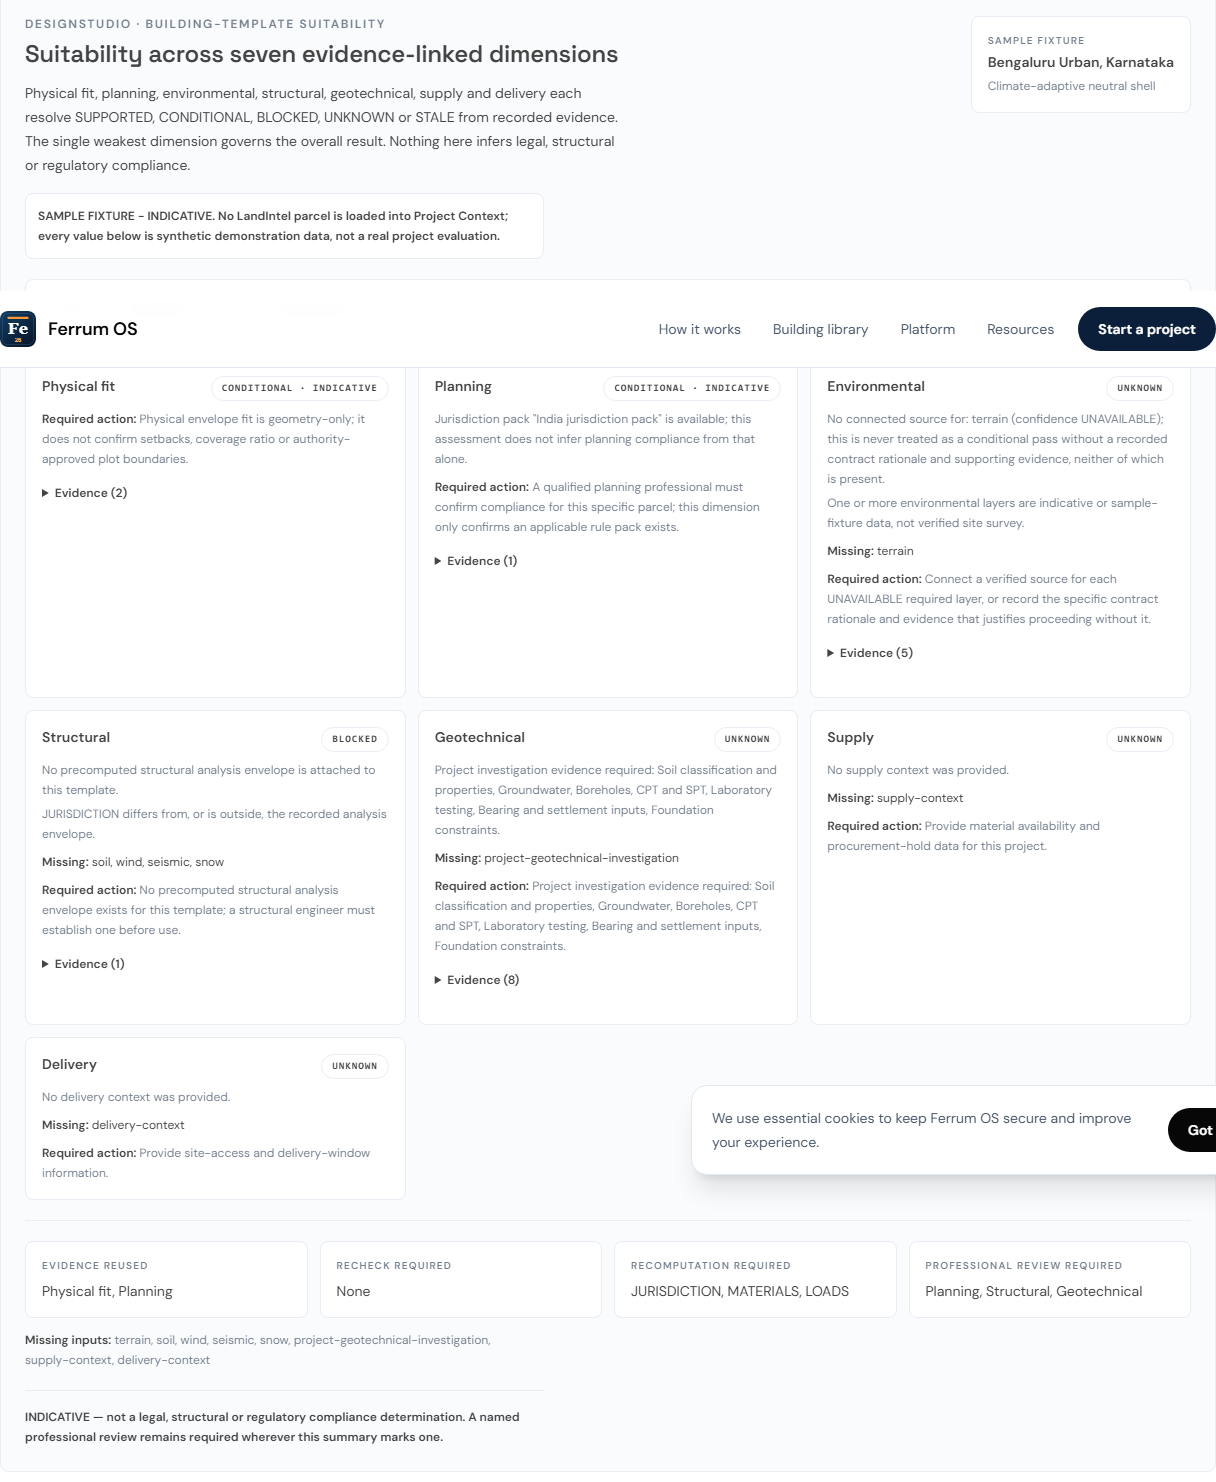
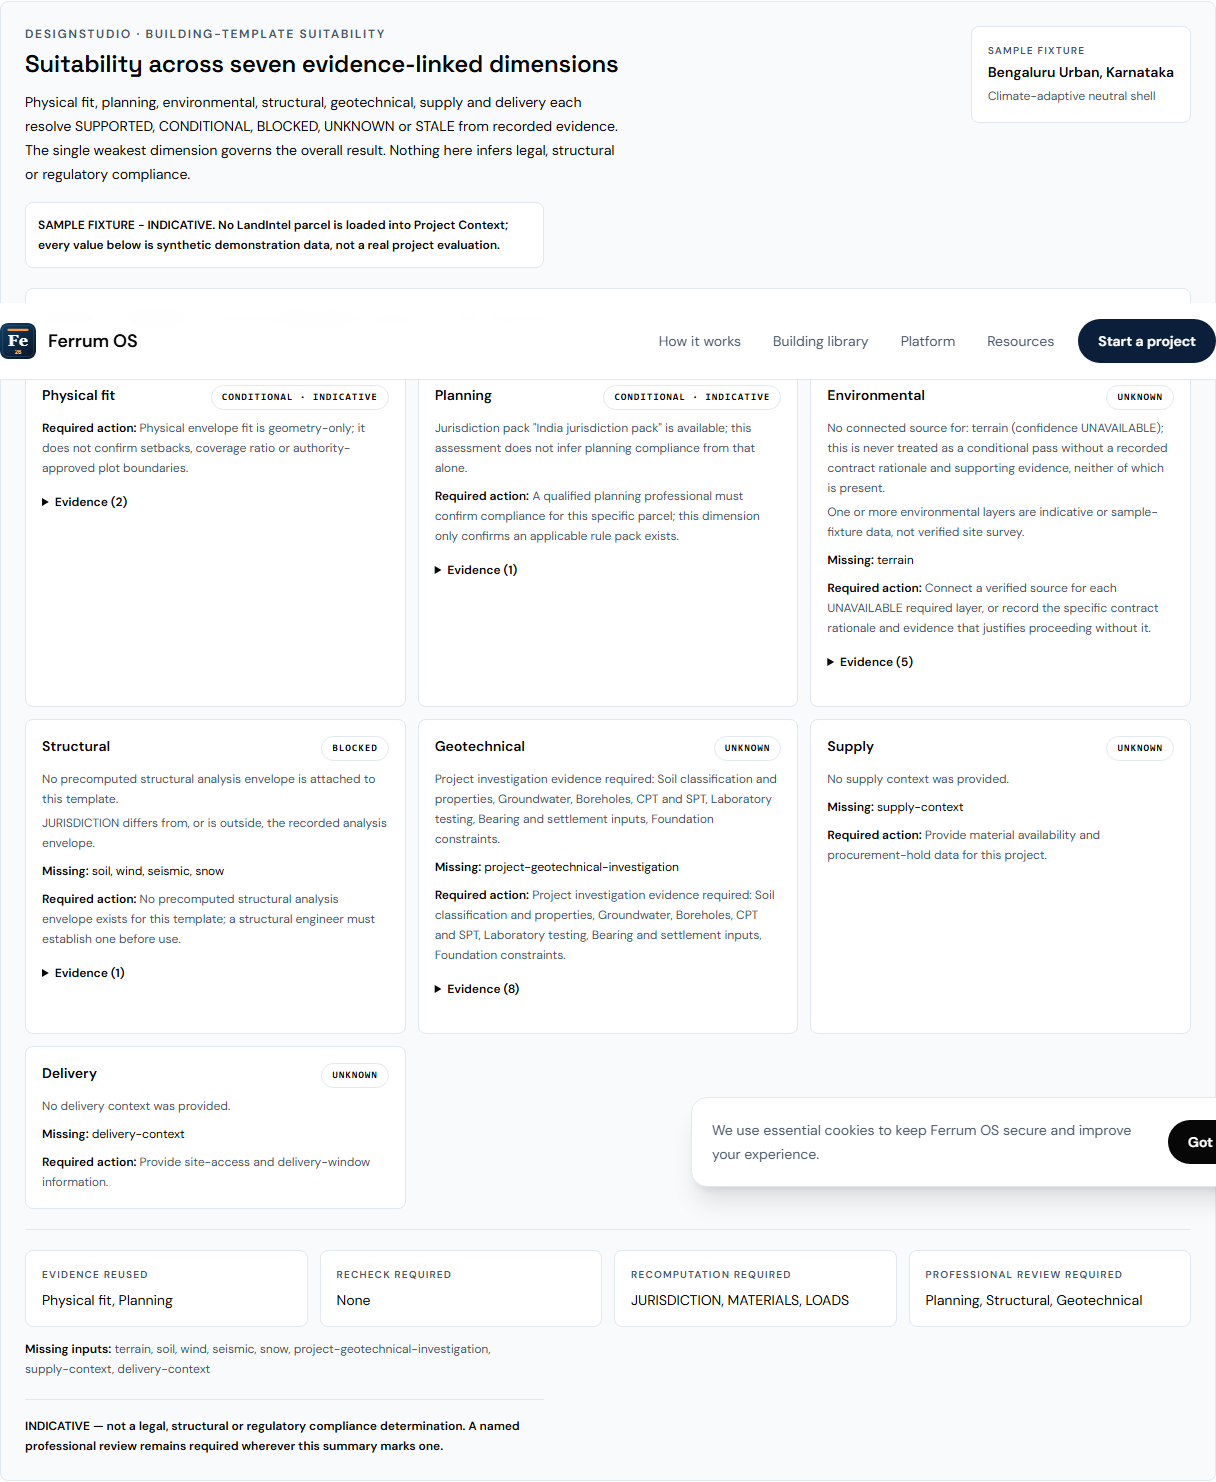
[AI: ATLAS] fix suitability jurisdiction and mobile evidence

diff --git a/apps/web/lib/designstudio/suitabilitySampleFixture.ts b/apps/web/lib/designstudio/suitabilitySampleFixture.ts
@@ -54,14 +54,13 @@ export function buildSampleTemplateInputs(template: BuildingTemplate): ProjectTe
  * dimension, structural or site-hazard data anywhere in this codebase today,
  * so every one of those fields stays null rather than being guessed - the
  * corresponding dimensions resolve UNKNOWN with an explicit missing input
- * instead of a fabricated value. `jurisdictionId` is the one exception: the
- * ParcelContext schema itself (ULPIN, state, district) is India-specific, so
- * naming the India jurisdiction pack here reflects the data model, not an
- * invented per-project fact.
+ * instead of a fabricated value. The location fields do not establish a
+ * country, governing authority, rule version or effective date, so the
+ * jurisdiction stays null until that project input is explicitly resolved.
  */
 export function buildProjectContextTemplateInputs(): ProjectTemplateInputs {
   return {
-    jurisdictionId: 'india',
+    jurisdictionId: null,
     soilBearingKpa: null,
     windSpeedMps: null,
     seismicClass: null,

diff --git a/apps/web/components/designstudio/SuitabilitySummaryPanel.test.tsx b/apps/web/components/designstudio/SuitabilitySummaryPanel.test.tsx
@@ -108,6 +108,14 @@ describe("SuitabilitySummaryPanel", () => {
       expect(geotechnical?.querySelector("[data-suitability-state]")?.getAttribute("data-suitability-state")).toBe("UNKNOWN")
     })
 
+    it("keeps planning UNKNOWN until the project explicitly resolves its jurisdiction", () => {
+      render(<SuitabilitySummaryPanel />)
+      const planning = document.querySelector('[data-suitability-dimension="planning"]')
+      expect(planning?.querySelector("[data-suitability-state]")?.getAttribute("data-suitability-state")).toBe("UNKNOWN")
+      expect(planning?.textContent).toMatch(/No jurisdiction pack is resolved/)
+      expect(planning?.textContent).toMatch(/country, state\/province and local authority/)
+    })
+
     it("governs the overall result by the weakest (structural) dimension, never SUPPORTED", () => {
       render(<SuitabilitySummaryPanel />)
       const overall = document.querySelector("[data-suitability-overall-state]")

diff --git a/apps/web/components/designstudio/SuitabilitySummaryPanel.tsx b/apps/web/components/designstudio/SuitabilitySummaryPanel.tsx
@@ -104,7 +104,11 @@ export default function SuitabilitySummaryPanel() {
     () => (isSample ? buildSampleTemplateInputs(template) : buildProjectContextTemplateInputs()),
     [isSample, template],
   )
-  const jurisdictionPack = useMemo(() => getJurisdictionPack("india"), [])
+  // The synthetic sample deliberately uses the India pack because the fixture
+  // says it represents Bengaluru. A real Project Context currently carries no
+  // country, governing authority, rule version or effective date, so it must
+  // remain UNKNOWN rather than inheriting an India-specific regulatory pack.
+  const jurisdictionPack = useMemo(() => (isSample ? getJurisdictionPack("india") : undefined), [isSample])
   const environmentalContext = useMemo(
     () =>
       buildEnvironmentalContext({

diff --git a/apps/web/app/products/designstudio/page.tsx b/apps/web/app/products/designstudio/page.tsx
@@ -96,14 +96,14 @@ export default function DesignStudioPage() {
         </div>
       </SectionShell>
 
+      <SectionShell>
+        <SuitabilitySummaryPanel />
+      </SectionShell>
+
       <ModelIntakePanel />
 
       <SectionShell>
         <EnvironmentalContextPanel />
-      </SectionShell>
-
-      <SectionShell>
-        <SuitabilitySummaryPanel />
       </SectionShell>
 
       {/* 2. Features */}
